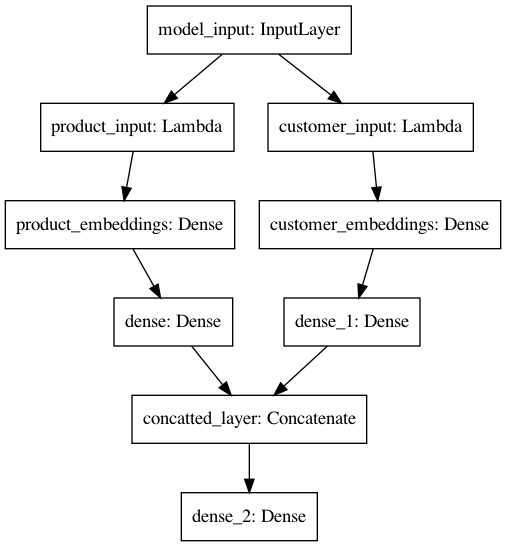
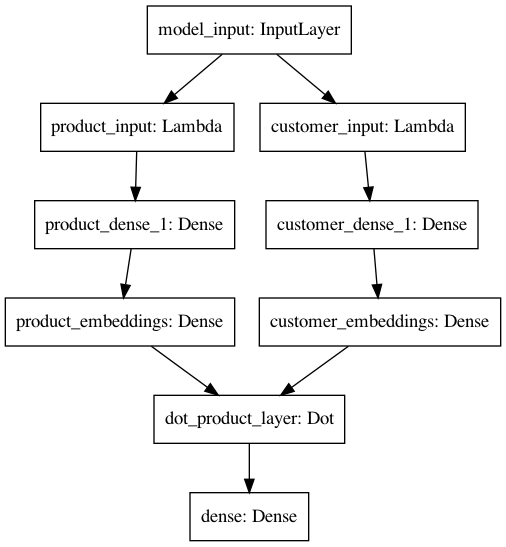
added deepNN model training

diff --git a/models/recommendation_model.py b/models/recommendation_model.py
@@ -27,41 +27,57 @@ def matrix_factorization_model(n_products, n_customers):
     return model
 
 
+def reshape_for_customer_input(customer_input, customer_feature_dim):
+    output = customer_input[:, -customer_feature_dim:]
+    return output
+
+
+def reshape_for_product_input(product_input, product_feature_dim):
+    # print("product input", product_input.shape)
+    output = product_input[:, :product_feature_dim]
+    return output
+
+
 def deep_nn_model(product_feature_dim, customer_feature_dim):
     # Note: batch_size will be omitted for following shapes. Assume that batch_size is first dimension of shape.
     # i.e (batch_size, shape_1, shape_2)
 
     # Shape: (,total_feature)
-    input_layer = tf.keras.layers.Input((product_feature_dim + customer_feature_dim, 1), name="model_input")
+    # print("feature dims", product_feature_dim, customer_feature_dim)
+    input_layer = tf.keras.layers.Input(shape=(product_feature_dim + customer_feature_dim,),
+                                        name="model_input")
     # input_layer = tf.keras.layers.Permute((2, 1),
-    #                                       input_shape=(product_feature_dim + customer_feature_dim, 1),
-    #                                       name="input_permute_layer")
-    print('input_layer', input_layer.shape)
+    #                                       # input_shape=(product_feature_dim + customer_feature_dim,),
+    #                                       name="input_permute_layer")(input_layer)
     # Shape: (,product_feature_dim)
-    product_input = tf.keras.layers.Lambda(lambda x: x[:, :product_feature_dim, :], name="product_input")(input_layer)
+    product_input = tf.keras.layers.Lambda(lambda x: reshape_for_product_input(x, product_feature_dim),
+                                           name="product_input")(input_layer)
+    product_dense_1 = tf.keras.layers.Dense(64, activation='relu', name="product_dense_1")(product_input)
     # Shape: (,product_feature_dim, embedding_dim)
     product_embedding = tf.keras.layers.Dense(
         embedding_dim,
         name="product_embeddings"
-    )(product_input)
+    )(product_dense_1)
     # Shape: (embedding_dim, 64)
-    product_dense_1 = tf.keras.layers.Dense(64, activation='relu')(product_embedding)
-    print("product shapes: ", product_input.shape, product_embedding.shape, product_dense_1.shape)
+    # print("product shapes: ", product_input.shape, product_embedding.shape, product_dense_1.shape)
 
     # Shape: (customer_feature_dim)
-    customer_input = tf.keras.layers.Lambda(lambda x: x[:, -customer_feature_dim:, :], name="customer_input")(
+    customer_input = tf.keras.layers.Lambda(lambda x: reshape_for_customer_input(x, customer_feature_dim),
+                                            name="customer_input")(
         input_layer)
+
+    customer_dense_1 = tf.keras.layers.Dense(64, activation='relu', name="customer_dense_1")(customer_input)
 
     # Shape: (customer_feature_dim, embedding_dim)
     customer_embedding = tf.keras.layers.Dense(
         embedding_dim,
         name="customer_embeddings"
-    )(customer_input)
+    )(customer_dense_1)
     # Shape: (
-    customer_dense_1 = tf.keras.layers.Dense(64, activation='relu')(customer_embedding)
-    print("customer shapes: ", customer_input.shape, customer_embedding.shape, customer_dense_1.shape)
-    concatted_layer = tf.keras.layers.Concatenate(axis=1, name="concatted_layer")([product_dense_1, customer_dense_1])
-    output = tf.keras.layers.Dense(1, activation="relu")(concatted_layer)
+    dot_product_layer = tf.keras.layers.Dot(axes=1, name="dot_product_layer")(
+        [product_embedding, customer_embedding])
+    output = tf.keras.layers.Dense(1, activation="relu")(dot_product_layer)
     model = tf.keras.Model(inputs=input_layer, outputs=output, name="DNNRecommendationModel")
     model.compile(optimizer="adam", loss="mean_squared_error", metrics=['mse', 'mae'])
+    print(model.summary())
     return model

diff --git a/train_recommendation.py b/train_recommendation.py
@@ -1,14 +1,12 @@
-from models.Recommendation import RecommendationModel
-from models.recommendation_model import deep_nn_model
 import argparse
-import numpy as np
 import os
-import tensorflow as tf
-from tools.data_processing import RecommendationDataProcessor
+from models.Recommendation import DeepNNRecommendationModel, MatrixRecommendationModel
 
 parser = argparse.ArgumentParser(description='Script for training recommendation model')
 
 parser.add_argument('--train', action='store_true', help='Train the model')
+
+parser.add_argument('--model', choices=['dnn', 'matrix'], default='dnn')
 
 parser.add_argument('--eval', action='store_true', help='Evaluate the model')
 
@@ -23,21 +21,19 @@ if __name__ == '__main__':
     PRODUCT_PATH = os.path.join(args.data_dir, 'products.csv')
     CUSTOMER_PATH = os.path.join(args.data_dir, 'customers.csv')
 
-    # if not args.train or not args.eval:
-    #     print('Need to specify "--train" or "--eval" flags or both.')
-    #
-    # recommendation_model = RecommendationModel(RATING_PATH, PRODUCT_PATH, CUSTOMER_PATH)
-    # if args.train:
-    #     recommendation_model.train_candidate_model(100)
-    # if args.eval:
-    #     recommendation_model.eval_candidate_model(True)
-    #
-    # recommended_product_idxes, recommended_product_values = recommendation_model.recommend(3, 5)
+    if not args.train or not args.eval:
+        print('Need to specify "--train" or "--eval" flags or both.')
 
-    dataProcessor = RecommendationDataProcessor(args.data_dir)
-    # for features, label in dataProcessor.dataset.take(4):
-    #     print("Features: {} \n, label: {} \n".format(features, label))
+    if args.model is 'matrix':
+        recommendation_model = MatrixRecommendationModel(RATING_PATH, PRODUCT_PATH, CUSTOMER_PATH)
+        if args.train:
+            recommendation_model.train_candidate_model(100)
+        if args.eval:
+            recommendation_model.eval_candidate_model(True)
 
-    model = deep_nn_model(dataProcessor.product_feature_dim, dataProcessor.customer_feature_dim)
-    tf.keras.utils.plot_model(model, "dnn_recommendation_model_2.png")
-    model.fit(dataProcessor.train_dataset, epochs=5, batch_size=32)
+    elif args.model is 'dnn':
+        recommendation_model = DeepNNRecommendationModel(args.data_dir)
+        if args.train:
+            recommendation_model.train()
+        if args.eval:
+            recommendation_model.evaluate()

diff --git a/models/Recommendation.py b/models/Recommendation.py
@@ -2,14 +2,15 @@ import pandas as pd
 from models import load_weight
 from tools.file_utils import check_is_csv, make_dir, is_dir_empty
 from sklearn.model_selection import train_test_split
-from models.recommendation_model import matrix_factorization_model
+from models.recommendation_model import matrix_factorization_model, deep_nn_model
 import os
 import numpy as np
 import tensorflow as tf
 from tensorboard.plugins import projector
+from tools.data_processing import RecommendationDataProcessor
 
 
-class RecommendationModel:
+class MatrixRecommendationModel:
     def __init__(self,
                  rating_path,
                  product_path,
@@ -91,3 +92,35 @@ class RecommendationModel:
         embedding = config.embeddings.add()
         embedding.tensor_name = '{}/.ATTRIBUTES/VARIABLE_VALUE'.format(embedding_name)
         projector.visualize_embeddings(log_dir, config)
+
+
+class DeepNNRecommendationModel:
+    def __init__(self, data_dir, checkpoint_dir="checkpoint/deepNN_recommendation"):
+        self.data_processor = RecommendationDataProcessor(data_dir)
+        self.model = deep_nn_model(self.data_processor.product_feature_dim, self.data_processor.customer_feature_dim)
+        self.checkpoint_dir = checkpoint_dir
+        self.checkpoint_path = os.path.join(checkpoint_dir, 'deep_nn_recommendation.ckpt')
+
+    def train(self, epochs=300, save_checkpoint=True):
+        callbacks = []
+        load_weight(self.model, self.checkpoint_dir)
+        checkpoint_cp = tf.keras.callbacks.ModelCheckpoint(self.checkpoint_path, save_weights_only=True)
+        if save_checkpoint:
+            callbacks.append(checkpoint_cp)
+        history = self.model.fit(self.data_processor.train_dataset,
+                                 batch_size=32,
+                                 epochs=epochs,
+                                 callbacks=callbacks)
+        return history
+
+    def evaluate(self):
+        load_weight(self.model, self.checkpoint_dir)
+        self.model.evaluate(self.data_processor.test_dataset, batch_size=32)
+
+    def product_model(self):
+        sub_model = tf.keras.Sequential()
+        layer_names = ['model_input', 'product_input', 'product_dense_1', 'product_embeddings']
+        for layer in self.model.layers:
+            if layer.name in layer_names:
+                sub_model.add(layer)
+        print(sub_model.summary())

diff --git a/tools/data_processing.py b/tools/data_processing.py
@@ -62,7 +62,7 @@ class RecommendationDataProcessor:
         result_columns = self.product_columns + self.customer_columns + ['label']
         self._result_df = pd.DataFrame(columns=result_columns)
 
-        for idx, row in self.ratings_df.loc[:500].iterrows():
+        for idx, row in self.ratings_df.iterrows():
             product_row = (self.products_df.loc[row['product_id'], self.product_columns]).values
             customer_row = (self.customers_df.loc[row['customer_id'], self.customer_columns]).values
             result_row = list(product_row) + list(customer_row) + [row['rating']]
@@ -76,12 +76,18 @@ class RecommendationDataProcessor:
         train_len = int(0.7 * total_rows)
 
         labels = np.array(self._result_df.pop('label').values, dtype=np.float)
-        labels = tf.keras.utils.normalize(labels).T
+        labels = np.expand_dims(labels, axis=1)
         features = np.array(self._result_df.values, dtype=np.float)
         # Shapes: Feature (num_of_rows, num_of_features) , Label (num_of_rows, 1)
-        self.dataset = tf.data.Dataset.from_tensor_slices((features, labels)).shuffle(total_rows)
+        self.dataset = tf.data.Dataset.from_tensor_slices((features, labels))
+        self.dataset = self.dataset.map(self._map_ds).shuffle(total_rows)
         self.train_dataset = self.dataset.take(train_len)
         self.test_dataset = self.dataset.skip(train_len)
+
+    @staticmethod
+    def _map_ds(feature, label):
+        num_of_features = feature.shape[0]
+        return tf.reshape(feature, [1, num_of_features]), label
 
     @staticmethod
     def transform_column_to_cat(df, col_name):
